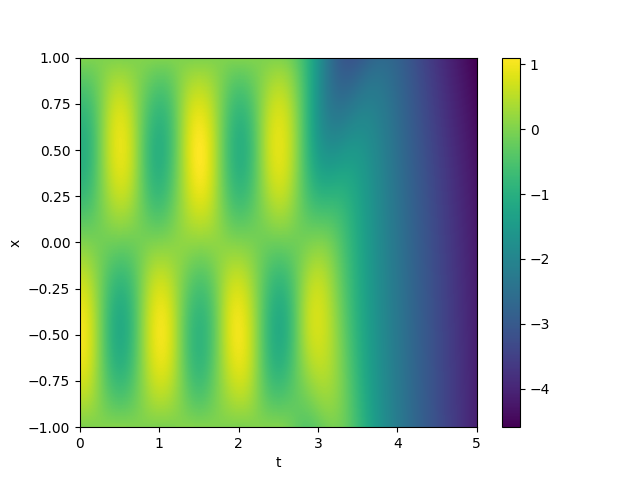
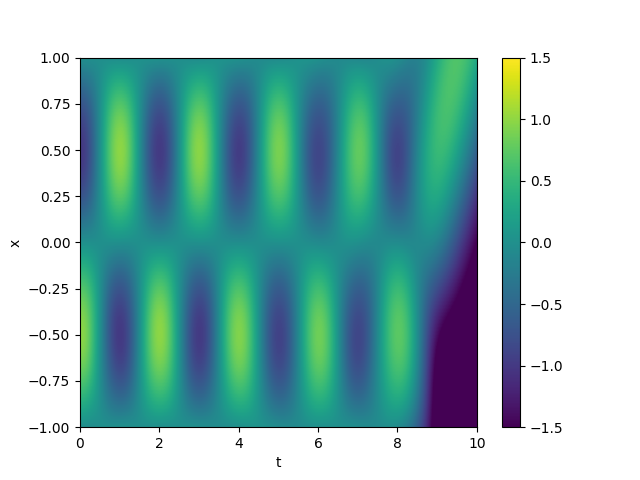
wave equation final

diff --git a/wave/wave_equation.py b/wave/wave_equation.py
@@ -22,6 +22,10 @@ class WaveEquationNN:
       activation,
       torch.nn.Linear(20, 20),
       activation,
+      torch.nn.Linear(20, 20),
+      activation,
+      torch.nn.Linear(20, 20),
+      activation,
       torch.nn.Linear(20,1)
     )
 
@@ -42,32 +46,16 @@ class WaveEquationNN:
       loss = loss + torch.mean( (u - u_answer)**2 )
     return loss
 
-  def train( self, x, t, u_answer=None ):
-    self.optimizer.zero_grad()
-    loss = self.loss( x, t, u_answer )
-    loss.backward()
-    self.optimizer.step()
-    return loss.item()
-
 wave = WaveEquationNN(1)
-try:
-  wave.net.load_state_dict( torch.load('wave_equation.pt') )
-except:
-  pass
 
-T = 5.0
-InitialCount = 256
-BoundaryCount = 256
-MeshCount = 256
+T1 = 4.0
+N1 = 64
+T2 = 8.0
+N2 = 64
 
-InitialT = torch.zeros( (InitialCount,1), dtype=torch.float32, requires_grad=True )
+BoundaryN = 128
 
-BoundaryX = np.ones( (BoundaryCount//2,1) )
-BoundaryX = np.concatenate( (BoundaryX, -BoundaryX) )
-BoundaryX = torch.tensor( BoundaryX, dtype=torch.float32, requires_grad=True )
-BoundaryU = torch.zeros_like( BoundaryX, dtype=torch.float32, requires_grad=False )
-
-Epochs = 10000
+Epochs = 25000
 
 Loss = [0]*Epochs
 
@@ -75,16 +63,20 @@ for i in range(Epochs):
   l = 0
   wave.optimizer.zero_grad()
 
-  InitialX = torch.rand( size=(InitialCount,1), dtype=torch.float32, requires_grad=True )*2 - 1.0
-  InitialU = torch.sin(np.pi*InitialX)
-  l = l + wave.loss( InitialX, InitialT, InitialU )
+  DataX1 = torch.rand( size=(N1,1), dtype=torch.float32, requires_grad=True )*2 - 1.0
+  DataT1 = torch.rand( size=(N1,1), dtype=torch.float32, requires_grad=True )*T1
+  DataU1 = torch.sin(np.pi*DataX1)*torch.cos(np.pi*DataT1)
+  l = l + wave.loss( DataX1, DataT1, DataU1 )
 
-  BoundaryT = torch.rand( size=(BoundaryCount,1), dtype=torch.float32, requires_grad=True )*T
+  DataX2 = torch.rand( size=(N2,1), dtype=torch.float32, requires_grad=True )*2 - 1.0
+  DataT2 = torch.rand( size=(N2,1), dtype=torch.float32, requires_grad=True )*(T2-T1) + T1
+  l = l + 2*wave.loss( DataX2, DataT2 )
+
+  BoundaryT = torch.rand( size=(BoundaryN*2,1), dtype=torch.float32, requires_grad=True )*T2
+  BoundaryX = torch.ones( size=(BoundaryN,1), dtype=torch.float32, requires_grad=True )
+  BoundaryX = torch.vstack( (BoundaryX, -BoundaryX) )
+  BoundaryU = torch.zeros_like(BoundaryX)
   l = l + wave.loss( BoundaryX, BoundaryT, BoundaryU )
-
-  MeshX = torch.rand( size=(MeshCount,1), dtype=torch.float32, requires_grad=True )*2 - 1.0
-  MeshT = torch.rand( size=(MeshCount,1), dtype=torch.float32, requires_grad=True )*T
-  l = l + wave.loss( MeshX, MeshT )
 
   print( i, l.item() )
   l.backward()
@@ -109,19 +101,10 @@ PlotU = wave.forward(
 
 PlotU = PlotU.detach().numpy().reshape( plotshape )
 
-plt.imshow( PlotU, aspect='auto', extent=[0, 5, -1, 1] )
+plt.imshow( PlotU, aspect='auto', extent=[0, 10, -1, 1], vmin=-1.5, vmax=1.5 )
 plt.xlabel( 't' )
 plt.ylabel( 'x' )
 plt.colorbar()
-plt.show()
-
-plt.plot( PlotX[:,0], PlotU[:,0], label='t=0' )
-plt.plot( PlotX[:,int(500/10.0*0.25)], PlotU[:,int(500/10.0*(2+0.25))], label='t=2.25' )
-plt.plot( PlotX[:,int(500/10.0*0.50)], PlotU[:,int(500/10.0*(2+0.50))], label='t=2.50' )
-plt.plot( PlotX[:,int(500/10.0*0.75)], PlotU[:,int(500/10.0*(2+0.75))], label='t=2.75' )
-plt.plot( PlotX[:,int(500/10.0)], PlotU[:,int(500/10.0*3)], label='t=3.00' )
-plt.plot( PlotX[:,int(500/10.0*2)], PlotU[:,int(500/10.0*4)], label='t=4.00' )
-plt.legend()
 plt.show()
 
 Loss = np.array(Loss)
